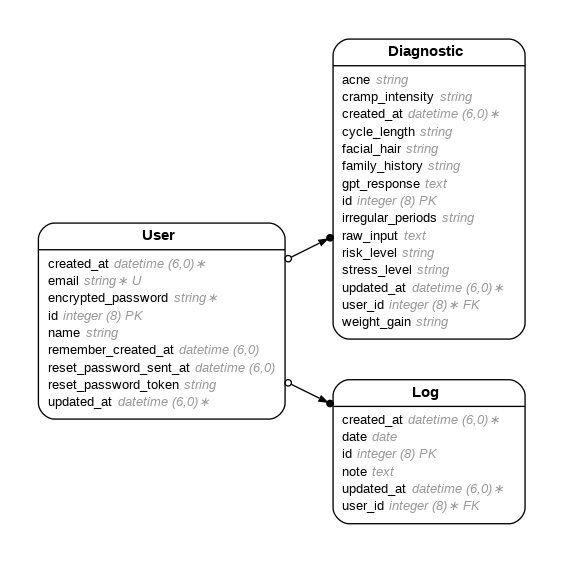
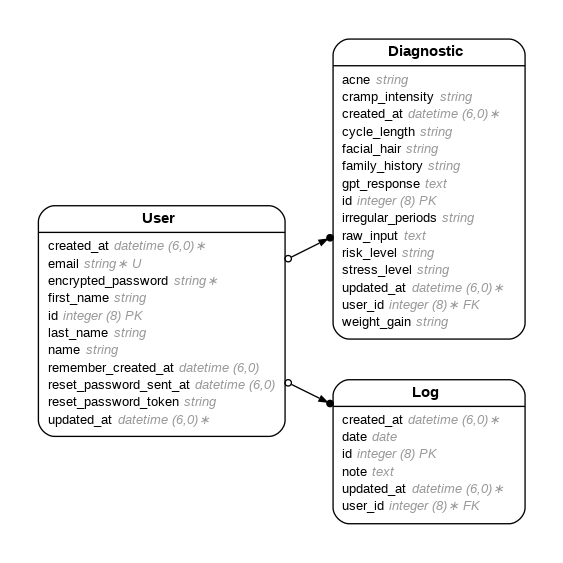
Add full_name method and sample seed data

Changed region(s): [[0.0604, 0.5737, 0.5133, 0.7851], [0.0604, 0.3623, 0.5133, 0.5435]]

diff --git a/app/models/user.rb b/app/models/user.rb
@@ -5,6 +5,8 @@
 #  id                     :bigint           not null, primary key
 #  email                  :string           default(""), not null
 #  encrypted_password     :string           default(""), not null
+#  first_name             :string
+#  last_name              :string
 #  name                   :string
 #  remember_created_at    :datetime
 #  reset_password_sent_at :datetime
@@ -24,5 +26,10 @@ class User < ApplicationRecord
          :recoverable, :rememberable, :validatable
   has_many :diagnostic_responses, class_name: "Diagnostic", foreign_key: "user_id", dependent: :destroy
   has_many :calendar_entries, class_name: "Log", foreign_key: "user_id", dependent: :destroy
+  
+  def full_name
+    "#{first_name} #{last_name}".strip
+  end
+  
          
 end

diff --git a/db/schema.rb b/db/schema.rb
@@ -10,7 +10,7 @@
 #
 # It's strongly recommended that you check this file into your version control system.
 
-ActiveRecord::Schema[7.1].define(version: 2025_04_25_205349) do
+ActiveRecord::Schema[7.1].define(version: 2025_04_29_212403) do
   # These are extensions that must be enabled in order to support this database
   enable_extension "plpgsql"
 
@@ -50,6 +50,8 @@ ActiveRecord::Schema[7.1].define(version: 2025_04_25_205349) do
     t.string "name"
     t.datetime "created_at", null: false
     t.datetime "updated_at", null: false
+    t.string "first_name"
+    t.string "last_name"
     t.index ["email"], name: "index_users_on_email", unique: true
     t.index ["reset_password_token"], name: "index_users_on_reset_password_token", unique: true
   end

diff --git a/app/controllers/application_controller.rb b/app/controllers/application_controller.rb
@@ -1,3 +1,12 @@
 class ApplicationController < ActionController::Base
   skip_forgery_protection
+
+  before_action :configure_permitted_parameters, if: :devise_controller?
+
+  protected
+
+  def configure_permitted_parameters
+    devise_parameter_sanitizer.permit(:sign_up, keys: [:first_name, :last_name])
+    devise_parameter_sanitizer.permit(:account_update, keys: [:first_name, :last_name])
+  end
 end

diff --git a/db/migrate/20250429212403_add_first_and_last_name_to_users.rb b/db/migrate/20250429212403_add_first_and_last_name_to_users.rb
@@ -1,0 +1,6 @@
+class AddFirstAndLastNameToUsers < ActiveRecord::Migration[7.1]
+  def change
+    add_column :users, :first_name, :string
+    add_column :users, :last_name, :string
+  end
+end
